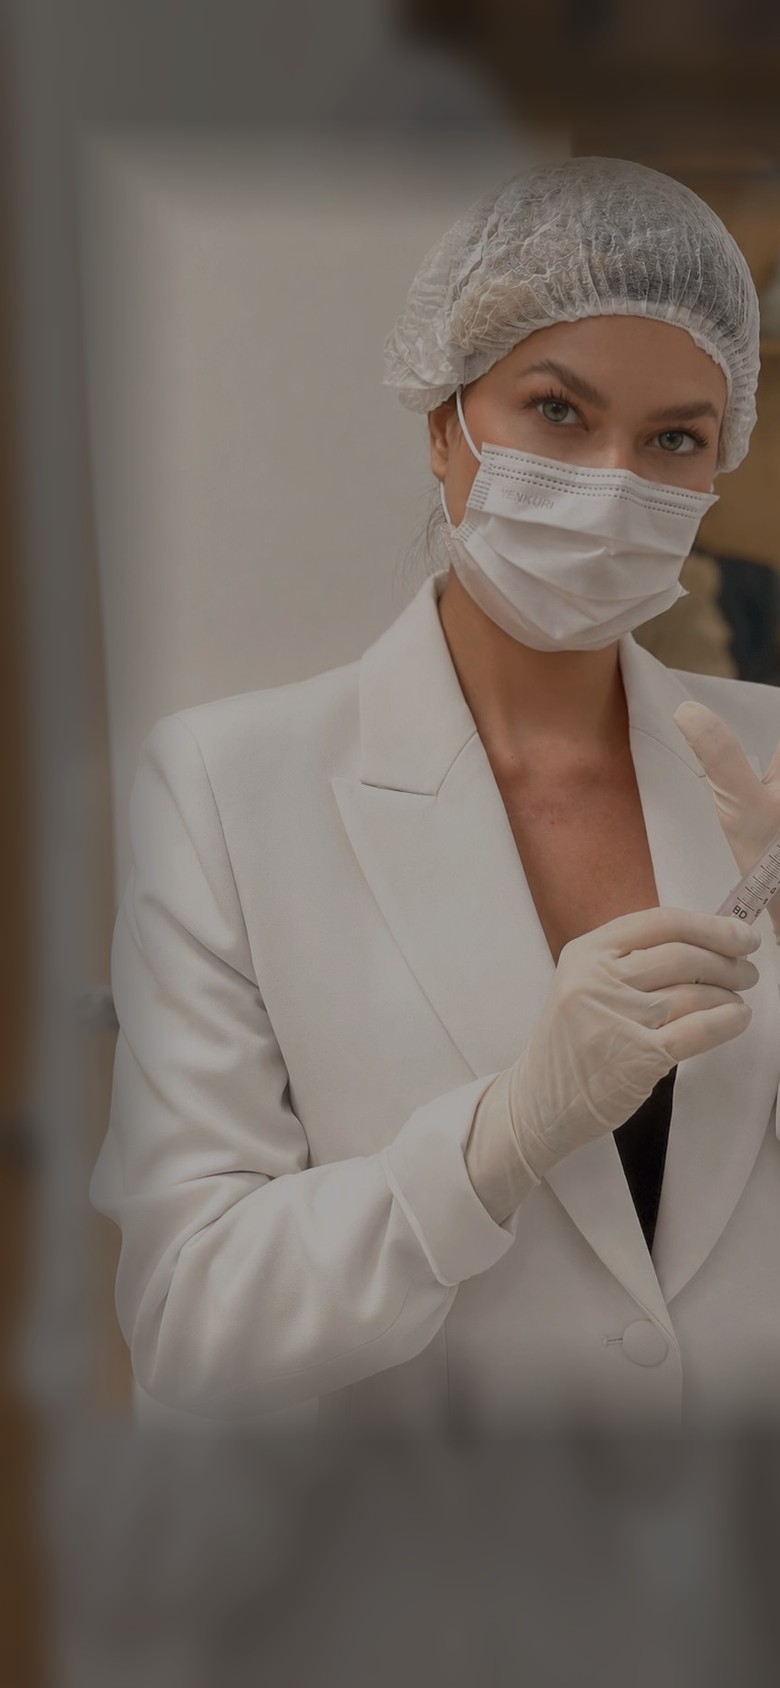
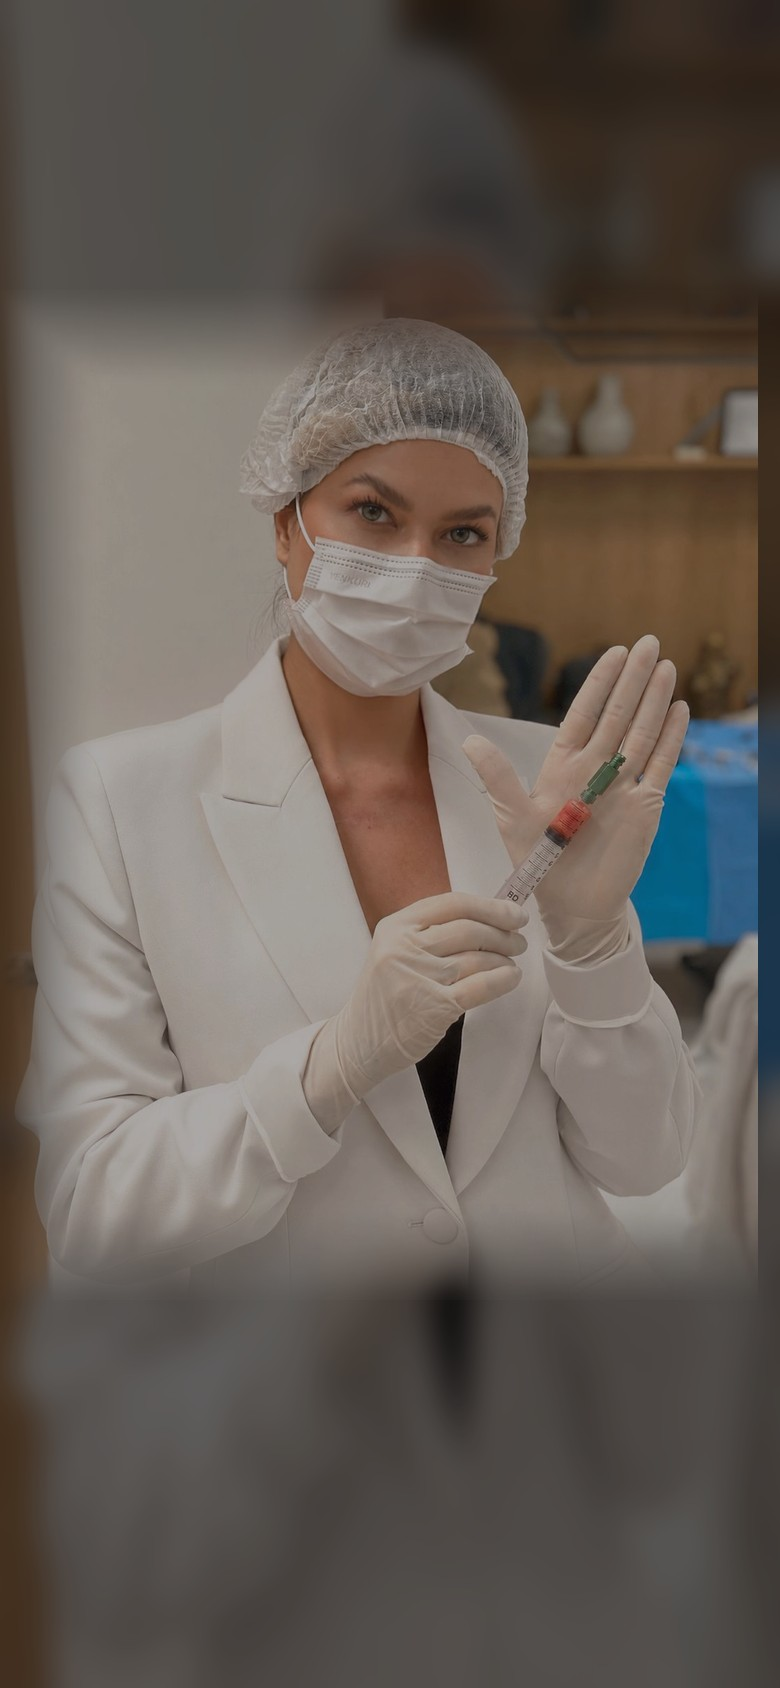
Ajustar enquadramento mobile da seringa

diff --git a/index.html b/index.html
@@ -8,7 +8,7 @@
   <link rel="preconnect" href="https://fonts.googleapis.com" />
   <link rel="preconnect" href="https://fonts.gstatic.com" crossorigin />
   <link href="https://fonts.googleapis.com/css2?family=Cormorant+Garamond:wght@500;600;700&family=Montserrat:wght@300;400;500;600;700&display=swap" rel="stylesheet" />
-  <link rel="stylesheet" href="styles.css?v=20260601-1930" />
+  <link rel="stylesheet" href="styles.css?v=20260601-1940" />
 </head>
 <body>
   <header class="site-header" id="site-header">

diff --git a/styles.css b/styles.css
@@ -1005,7 +1005,7 @@ p {
   }
 
   .hero-media img {
-    content: url("assets/dra-hero-mobile.jpg");
+    content: url("assets/dra-hero-mobile.jpg?v=20260601-1940");
     object-position: center center;
   }
 
